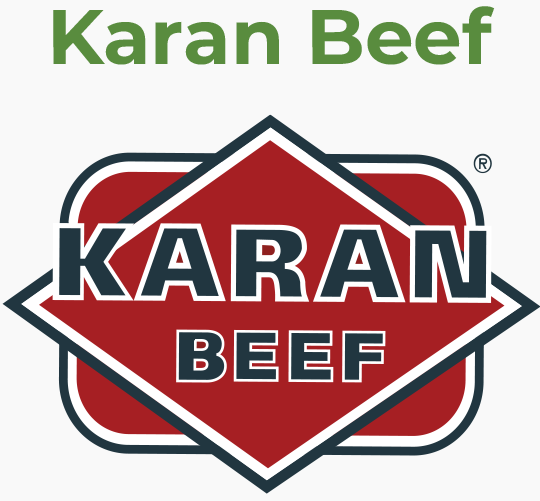
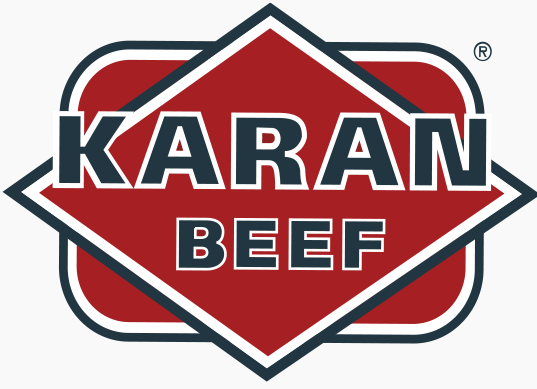
ui

diff --git a/keyPrand.html b/keyPrand.html
@@ -85,6 +85,9 @@
         </div>
         <div class="row mt-4 mb-4" data-aos="fade-up" data-aos-delay="100">
           <div class="col-xs-2 col-lg-2 col-sm-2 col-md-2  col-2 text-center">
+            <div class="MontserratBold title-logo">
+              Karan Beef
+            </div>
             <img src="assets/img/key brand/log1.png" class="key-brand-logo">
           </div>
           <div class="col-xs-8 col-lg-8 col-sm-8 col-md-8 pl-4 col-8 MREgular">
@@ -110,6 +113,9 @@
 
         <div class="row mt-4 mb-4" data-aos="fade-up" data-aos-delay="150">
           <div class="col-xs-2 col-lg-2 col-sm-2 col-md-2 col-2 text-center">
+            <div class="title-logo  MontserratBold">
+              Frigorifico Pico
+            </div>
             <img src="assets/img/key brand/logo2.png" class="key-brand-logo">
           </div>
           <div class="col-xs-8 col-lg-8 col-sm-8 col-md-8 col-8 pl-4">
@@ -134,7 +140,7 @@
 
         <div class="row mt-4 mb-4" data-aos="fade-up" data-aos-delay="200">
           <div class="col-xs-2 col-lg-2 col-sm-2 col-md-2 col-2 text-center">
-            <div class="font-weight-bold text-sucess mb-3 MontserratBold">
+            <div class="title-logo MontserratBold">
               Brick Barn
             </div>
             <img src="assets/img/key brand/logo3.png" class="key-brand-logo">
@@ -164,7 +170,7 @@
 
         <div class="row mt-4 mb-4" data-aos="fade-up" data-aos-delay="250">
           <div class="col-xs-2 col-lg-2 col-sm-2 col-md-2 col-2 text-center">
-            <div class="MontserratBold text-sucess mb-3">
+            <div class="MontserratBold title-logo ">
               Samex
             </div>
             <img src="assets/img/key brand/logo4.png" class="key-brand-logo">
@@ -187,6 +193,9 @@
         </div>
         <div class="row mt-4 mb-4" data-aos="fade-up" data-aos-delay="300">
           <div class="col-xs-2 col-lg-2 col-sm-2 col-md-2 col-2 text-center">
+            <div class="title-logo MontserratBold">
+              Hardwicks
+            </div>
             <img src="assets/img/key brand/logo5.png" class="key-brand-logo">
           </div>
           <div class="col-xs-8 col-lg-8 col-sm-8 col-md-8 col-8 pl-4">
@@ -209,6 +218,9 @@
 
         <div class="row mt-4 mb-4" data-aos="fade-up" data-aos-delay="350">
           <div class="col-xs-2 col-lg-2 col-sm-2 col-md-2 col-2 text-center">
+            <div class="title-logo  MontserratBold">
+              John Dee
+            </div>
             <img src="assets/img/key brand/logo6.png" class="key-brand-logo">
           </div>
           <div class="col-xs-8 col-lg-8 col-sm-8 col-md-8 col-8 pl-4">
@@ -231,6 +243,9 @@
 
         <div class="row mt-4 mb-4" data-aos="fade-up" data-aos-delay="400">
           <div class="col-xs-2 col-lg-2 col-sm-2 col-md-2 col-2 mb-4 text-center">
+            <div class="title-logo MontserratBold">
+              Stanbroke
+            </div>
             <img src="assets/img/key brand/logo7.png" class="key-brand-logo">
           </div>
           <div class="col-xs-8 col-lg-8 col-sm-8 col-md-8 col-8 pl-4 mb-4">
@@ -252,6 +267,9 @@
         </div>
         <div class="row mt-4 mb-4" data-aos="fade-up" data-aos-delay="450">
           <div class="col-xs-2 col-lg-2 col-sm-2 col-md-2  col-2 text-center">
+            <div class="title-logo MontserratBold">
+              Fletcher
+            </div>
             <img src="assets/img/key brand/logo8.png" class="key-brand-logo">
           </div>
           <div class="col-xs-8 col-lg-8 col-sm-8 col-md-8 col-8 pl-4 ">
@@ -277,7 +295,7 @@
 
         <div class="row mt-4 mb-4" data-aos="fade-up" data-aos-delay="500">
           <div class="col-xs-2 col-lg-2 col-sm-2 col-md-2 col-2 text-center">
-            <div class="text-sucess mb-4 MontserratBold">
+            <div class="title-logo  MontserratBold">
               Backaldrin
             </div>
             <img src="assets/img/key brand/logo9a.png" class="key-brand-logo">
@@ -308,6 +326,9 @@
 
         <div class="row mt-4 mb-4" data-aos="fade-up" data-aos-delay="550">
           <div class="col-xs-2 col-lg-2 col-sm-2 col-md-2 col-2 text-center">
+            <div class="title-logo MontserratBold">
+              Smet
+            </div>
             <img src="assets/img/key brand/logo9.png" class="key-brand-logo">
           </div>
           <div class="col-xs-8 col-lg-8 col-sm-8 col-md-8 col-8 pl-4">
@@ -330,6 +351,9 @@
 
         <div class="row mt-4 mb-4" data-aos="fade-up" data-aos-delay="600">
           <div class="col-xs-2 col-lg-2 col-sm-2 col-md-2 col-2 text-center">
+            <div class="title-logo  MontserratBold">
+              Cargill
+            </div>
             <img src="assets/img/key brand/logo10.png" class="key-brand-logo">
           </div>
           <div class="col-xs-8 col-lg-8 col-sm-8 col-md-8 col-8 pl-4">
@@ -355,6 +379,9 @@
 
         <div class="row mt-4 mb-4" data-aos="fade-up" data-aos-delay="650">
           <div class="col-xs-2 col-lg-2 col-sm-2 col-md-2 col-2 mb-4 text-center">
+            <div class="title-logo  MontserratBold">
+              Natra
+            </div>
             <img src="assets/img/key brand/logo11.png" class="key-brand-logo">
           </div>
           <div class="col-xs-8 col-lg-8 col-sm-8 col-md-8 col-8 pl-4 mb-4">
@@ -372,6 +399,12 @@
         </div>
         <div class="row mt-4 mb-4" data-aos="fade-up" data-aos-delay="700">
           <div class="col-xs-2 col-lg-2 col-sm-2 col-md-2 col-2 mt-4 mb-4 text-center">
+            <div class="title-logo1 MontserratBold">
+              Royal Mix &
+            </div>
+            <div class="title-logo MontserratBold ">
+So Fresh
+            </div>
             <img src="assets/img/key brand/logo12.png" class="key-brand-logo">
           </div>
           <div class="col-xs-8 col-lg-8 col-sm-8 col-md-8 col-8 pl-4 mt-4 mb-4">

diff --git a/assets/css/style.css b/assets/css/style.css
@@ -73,9 +73,12 @@ body {
 
 
 
-.text-sucess, a {
+.text-sucess, a, .title-logo, .title-logo1 {
   color: #598c3e;
 
+}
+.title-logo {
+  margin-bottom:10px;
 }
 
 div, p, .main-descrption{
@@ -252,6 +255,7 @@ h1, h2, h3, h4, h5, h6 {
   font-weight: 400;
   text-transform: none;
   color: #111;
+  font-family: MontserratRegular !important;
 }
 
 .nav-menu .drop-down ul a:hover, .nav-menu .drop-down ul .active > a, .nav-menu .drop-down ul li:hover > a {
@@ -612,7 +616,7 @@ h1, h2, h3, h4, h5, h6 {
 
 @media (max-height: 500px) {
   #hero {
-    height: 120vh;
+    /* height: 120vh; */
   }
 }
 
